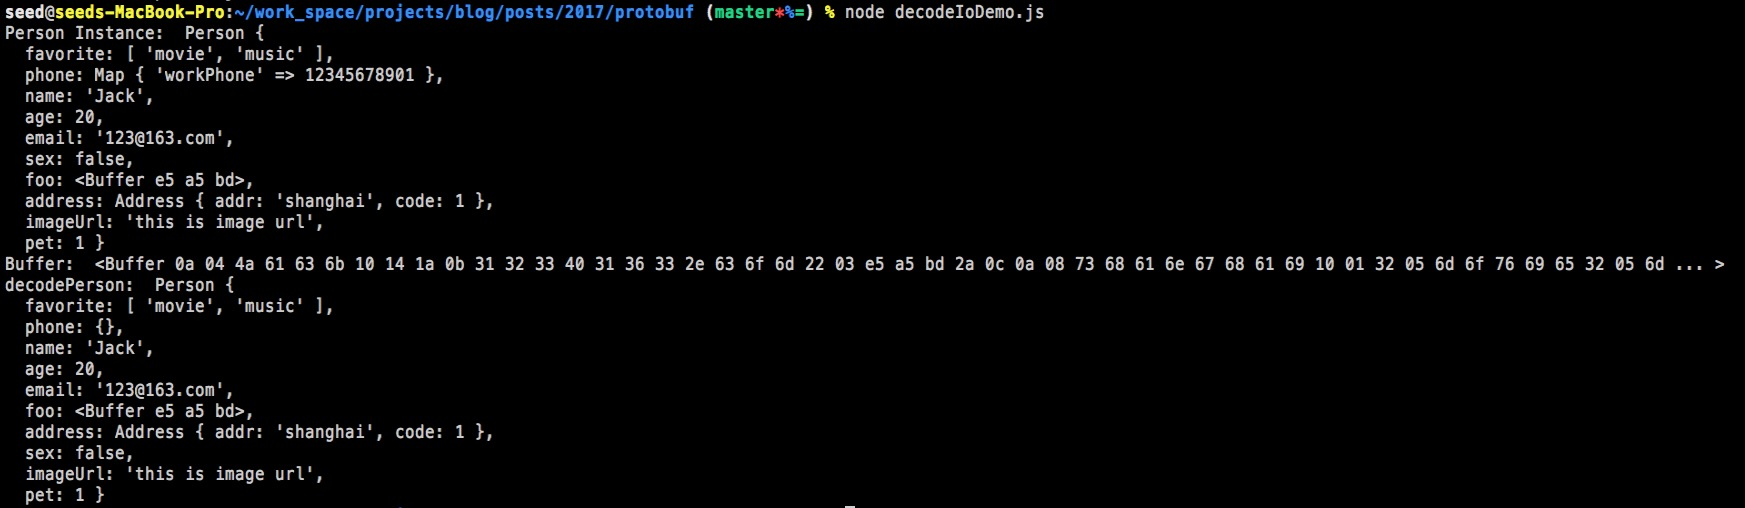
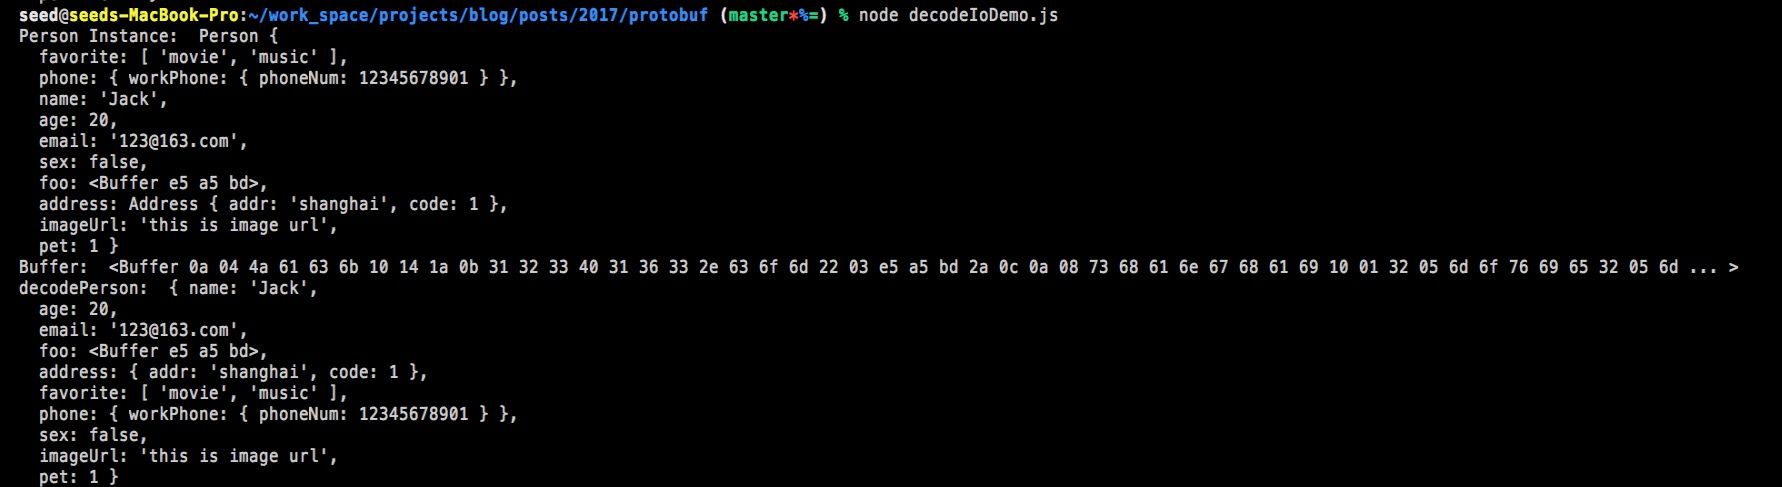
update protobuf

Changed region(s): [[0.0, 0.0, 0.9903, 1.0]]

diff --git a/posts/2017/protobuf/protos/person_pb2.js b/posts/2017/protobuf/protos/person_pb2.js
@@ -224,7 +224,7 @@ $root.Phone = (function() {
      * Properties of a Phone.
      * @exports IPhone
      * @interface IPhone
-     * @property {number} [phoneNum] Phone phoneNum
+     * @property {number|Long} [phoneNum] Phone phoneNum
      */
 
     /**
@@ -243,11 +243,11 @@ $root.Phone = (function() {
 
     /**
      * Phone phoneNum.
-     * @member {number}phoneNum
+     * @member {number|Long}phoneNum
      * @memberof Phone
      * @instance
      */
-    Phone.prototype.phoneNum = 0;
+    Phone.prototype.phoneNum = $util.Long ? $util.Long.fromBits(0,0,false) : 0;
 
     /**
      * Creates a new Phone instance using the specified properties.
@@ -274,7 +274,7 @@ $root.Phone = (function() {
         if (!writer)
             writer = $Writer.create();
         if (message.phoneNum != null && message.hasOwnProperty("phoneNum"))
-            writer.uint32(/* id 1, wireType 0 =*/8).int32(message.phoneNum);
+            writer.uint32(/* id 1, wireType 0 =*/8).int64(message.phoneNum);
         return writer;
     };
 
@@ -310,7 +310,7 @@ $root.Phone = (function() {
             var tag = reader.uint32();
             switch (tag >>> 3) {
             case 1:
-                message.phoneNum = reader.int32();
+                message.phoneNum = reader.int64();
                 break;
             default:
                 reader.skipType(tag & 7);
@@ -348,8 +348,8 @@ $root.Phone = (function() {
         if (typeof message !== "object" || message === null)
             return "object expected";
         if (message.phoneNum != null && message.hasOwnProperty("phoneNum"))
-            if (!$util.isInteger(message.phoneNum))
-                return "phoneNum: integer expected";
+            if (!$util.isInteger(message.phoneNum) && !(message.phoneNum && $util.isInteger(message.phoneNum.low) && $util.isInteger(message.phoneNum.high)))
+                return "phoneNum: integer|Long expected";
         return null;
     };
 
@@ -366,7 +366,14 @@ $root.Phone = (function() {
             return object;
         var message = new $root.Phone();
         if (object.phoneNum != null)
-            message.phoneNum = object.phoneNum | 0;
+            if ($util.Long)
+                (message.phoneNum = $util.Long.fromValue(object.phoneNum)).unsigned = false;
+            else if (typeof object.phoneNum === "string")
+                message.phoneNum = parseInt(object.phoneNum, 10);
+            else if (typeof object.phoneNum === "number")
+                message.phoneNum = object.phoneNum;
+            else if (typeof object.phoneNum === "object")
+                message.phoneNum = new $util.LongBits(object.phoneNum.low >>> 0, object.phoneNum.high >>> 0).toNumber();
         return message;
     };
 
@@ -384,9 +391,16 @@ $root.Phone = (function() {
             options = {};
         var object = {};
         if (options.defaults)
-            object.phoneNum = 0;
+            if ($util.Long) {
+                var long = new $util.Long(0, 0, false);
+                object.phoneNum = options.longs === String ? long.toString() : options.longs === Number ? long.toNumber() : long;
+            } else
+                object.phoneNum = options.longs === String ? "0" : 0;
         if (message.phoneNum != null && message.hasOwnProperty("phoneNum"))
-            object.phoneNum = message.phoneNum;
+            if (typeof message.phoneNum === "number")
+                object.phoneNum = options.longs === String ? String(message.phoneNum) : message.phoneNum;
+            else
+                object.phoneNum = options.longs === String ? $util.Long.prototype.toString.call(message.phoneNum) : options.longs === Number ? new $util.LongBits(message.phoneNum.low >>> 0, message.phoneNum.high >>> 0).toNumber() : message.phoneNum;
         return object;
     };
 

diff --git a/posts/2017/protobuf/decodeIoDemo2.js b/posts/2017/protobuf/decodeIoDemo2.js
@@ -1,0 +1,51 @@
+const protobuf = require("protobufjs")
+
+// proto文件的路径
+protobuf.load('./protos/person.proto', (err, root) => {
+  const Person = root.lookupType('Person')
+  const Address = root.lookupType('Address')
+  const Phone = root.lookupType('Phone')
+
+  const personObj = {
+    name: 'Jack',
+    age: 20,
+    email: '123@163.com',
+    sex: false
+  }
+  
+  personObj.foo = Buffer.from('好')
+  
+  const addressObj = {
+    addr: 'shanghai',
+    code: 1
+  }
+  const address = Address.create(addressObj)
+  personObj.address = address
+  
+  const favorite = ['movie', 'music']
+  personObj.favorite = favorite
+  
+  personObj.phone = {
+    'workPhone': {
+      phoneNum: 12345678901
+    }
+  }
+  
+  personObj.avatar = 'imageUrl'
+  personObj.imageUrl = 'this is image url'
+  
+  personObj.pet = 1
+  
+  const error = Person.verify(personObj)
+  if (error) return console.log(err)
+
+  const person = Person.create(personObj)
+  
+  const buffer = Person.encode(person).finish()
+  console.log('Person Instance: ', person)
+  console.log('Buffer: ', buffer)
+  
+  // >>>>>>>>>>>>> like client
+  const decodePerson = Person.decode(buffer)
+  console.log('decodePerson: ', Person.toObject(decodePerson, {longs: Number}))
+})

diff --git a/posts/2017/protobuf/decodeIoDemo3.js b/posts/2017/protobuf/decodeIoDemo3.js
@@ -1,4 +1,11 @@
-const {Person, Address, Phone} = require('./protos/person_pb2')
+// 当采用json的方式时，这个包不包含解析器，包更小
+const protobuf = require("protobufjs/light")
+const bundle = require('./protos/bundle.json')
+
+const root = protobuf.Root.fromJSON(bundle)
+const Person = root.lookupType('Person')
+const Address = root.lookupType('Address')
+const Phone = root.lookupType('Phone')
 
 const personObj = {
   name: 'Jack',
@@ -30,8 +37,8 @@ personObj.imageUrl = 'this is image url'
 
 personObj.pet = 1
 
-const err = Person.verify(personObj)
-if (err) return console.error(err)
+const error = Person.verify(personObj)
+if (error) return console.log(error)
 
 const person = Person.create(personObj)
 
@@ -41,5 +48,4 @@ console.log('Buffer: ', buffer)
 
 // >>>>>>>>>>>>> like client
 const decodePerson = Person.decode(buffer)
-console.log('decodePerson: ', Person.toObject(decodePerson, {longs: Number}))
-
+console.log('decodePerson: ', Person.toObject(decodePerson, {longs: Number, enums: String, bytes: String, oneofs: true}))

diff --git a/posts/2017/protobuf/如何使用protobuf.md b/posts/2017/protobuf/如何使用protobuf.md
@@ -144,12 +144,6 @@ person.serializeBinary()
 ```
 
 ## 使用decodeIO的protobuf.js
-在实际项目中，并不会像上面的案例这么简单，很多时候，我们是不知道客户端传递什么数据过来的，我们也不知道应该使用哪个proto文件生产的js文件。
-
-以日常的交易为例子，其中有两个业务，一个是查询历史交易订单，一个是下交易订单，它们分别是不同的proto文件  
-客户端采用tcp连接到服务器，传递了一批二进制数据过来，我们没法识别这数据到底是查询历史交易订单还是下交易订单，也因此无法采用之前的案例的做法了
-
-
 在githu上还有另外一个javascript的protobuf库，[protobuf.js](https://github.com/dcodeIO/ProtoBuf.js) 使用起来更简单方便，我在实际项目中使用的也是这个
 
 该库有个命令行工具，可以将proto文件编译成静态的js库，和上面用protoc编译一样。也可以将proto文件转化成对应json格式的文件，这个我们后面讲。
@@ -183,9 +177,11 @@ personObj.address = address
 const favorite = ['movie', 'music']
 personObj.favorite = favorite
 
-const phoneObj = new Map()
-phoneObj.set('workPhone', 12345678901)
-personObj.phone = phoneObj
+personObj.phone = {
+  'workPhone': {
+    phoneNum: 12345678901
+  }
+}
 
 personObj.avatar = 'imageUrl'
 personObj.imageUrl = 'this is image url'
@@ -203,7 +199,7 @@ console.log('Buffer: ', buffer)
 
 // >>>>>>>>>>>>> like client
 const decodePerson = Person.decode(buffer)
-console.log('decodePerson: ', decodePerson)
+console.log('decodePerson: ', Person.toObject(decodePerson, {longs: Number}))
 ```
 同理运行这个程序依旧需要在我们的项目安装protobuf.js，`npm i protobufjs`
 运行结果如下：  
@@ -227,6 +223,143 @@ protobuf.js库的执行
 1. repeated类型，需要一个数组
 1. map类型，就用js中原生的map
 1. oneof类型，如果一个message中，某一项有多种不同类型的值就使用oneof取其一，需要先声明所需存储的Key名，如案例中的`personObj.avatar = 'imageUrl'`，在定义该Key对应的值，如`personObj.imageUrl = 'this is image url'`
+
+### protobufjs另外一种使用方式
+在某些情况下，人们无法预先知道 .proto 文件，他们需要动态处理一些未知的 .proto 文件。
+
+```javascript
+const protobuf = require("protobufjs")
+
+// proto文件的路径
+protobuf.load('./protos/person.proto', (err, root) => {
+  const Person = root.lookupType('Person')
+  const Address = root.lookupType('Address')
+  const Phone = root.lookupType('Phone')
+
+  const personObj = {
+    name: 'Jack',
+    age: 20,
+    email: '123@163.com',
+    sex: false
+  }
+  
+  personObj.foo = Buffer.from('好')
+  
+  const addressObj = {
+    addr: 'shanghai',
+    code: 1
+  }
+  const address = Address.create(addressObj)
+  personObj.address = address
+  
+  const favorite = ['movie', 'music']
+  personObj.favorite = favorite
+  
+  personObj.phone = {
+    'workPhone': {
+      phoneNum: 12345678901
+    }
+  }
+  
+  personObj.avatar = 'imageUrl'
+  personObj.imageUrl = 'this is image url'
+  
+  personObj.pet = 1
+  
+  const error = Person.verify(personObj)
+  if (error) return console.log(err)
+
+  const person = Person.create(personObj)
+  
+  const buffer = Person.encode(person).finish()
+  console.log('Person Instance: ', person)
+  console.log('Buffer: ', buffer)
+  
+  // >>>>>>>>>>>>> like client
+  const decodePerson = Person.decode(buffer)
+  console.log('decodePerson: ', Person.toObject(decodePerson, {longs: Number}))
+})
+```
+运行结果和之前是一样的
+
+还有一种做法，我们事先将proto文件编译成json
+```bash
+$ pbjs -t json person.proto -o bundle.json
+```
+
+接着直接在代码中使用该json文件
+
+```javascript
+// 当采用json的方式时，这个包不包含解析器，包更小
+const protobuf = require("protobufjs/light")
+const bundle = require('./protos/bundle.json')
+
+const root = protobuf.Root.fromJSON(bundle)
+const Person = root.lookupType('Person')
+const Address = root.lookupType('Address')
+const Phone = root.lookupType('Phone')
+
+const personObj = {
+  name: 'Jack',
+  age: 20,
+  email: '123@163.com',
+  sex: false
+}
+
+personObj.foo = Buffer.from('好')
+
+const addressObj = {
+  addr: 'shanghai',
+  code: 1
+}
+const address = Address.create(addressObj)
+personObj.address = address
+
+const favorite = ['movie', 'music']
+personObj.favorite = favorite
+
+personObj.phone = {
+  'workPhone': {
+    phoneNum: 12345678901
+  }
+}
+
+personObj.avatar = 'imageUrl'
+personObj.imageUrl = 'this is image url'
+
+personObj.pet = 1
+
+const error = Person.verify(personObj)
+if (error) return console.log(error)
+
+const person = Person.create(personObj)
+
+const buffer = Person.encode(person).finish()
+console.log('Person Instance: ', person)
+console.log('Buffer: ', buffer)
+
+// >>>>>>>>>>>>> like client
+const decodePerson = Person.decode(buffer)
+console.log('decodePerson: ', Person.toObject(decodePerson, {longs: Number, enums: String, bytes: String}))
+```
+运行结果和之前基本是一样的，但是注意我们最后一行代码toObject的时候，传了一些其他的参数，用于转化一些值。 
+![person_pb3](../images/pb3.jpeg)
+
+相关参数说明如下：
+```
+var object = AwesomeMessage.toObject(message, {
+  enums: String,  // 将枚举值转化为对应的Key
+  longs: String,  // 将long类型转化为string
+  bytes: String,  // 将bytes转化为base64
+  defaults: true, // 包含默认值
+  arrays: true,   // 即使数组没有值，让该数组出现在message实例中，填充空数组
+  objects: true,  // 同上，所谓空对象
+  oneofs: true    // 包含被设置值的字段名称
+})
+```
+
+官方是这么说的：
+推荐在生产环境中采取这种将所有proto编译成单独的json文件的方式，减少网络请求，也可以避免过度解析
 
 ## 参考
 1. [google protobufers](https://developers.google.com/protocol-buffers/)
